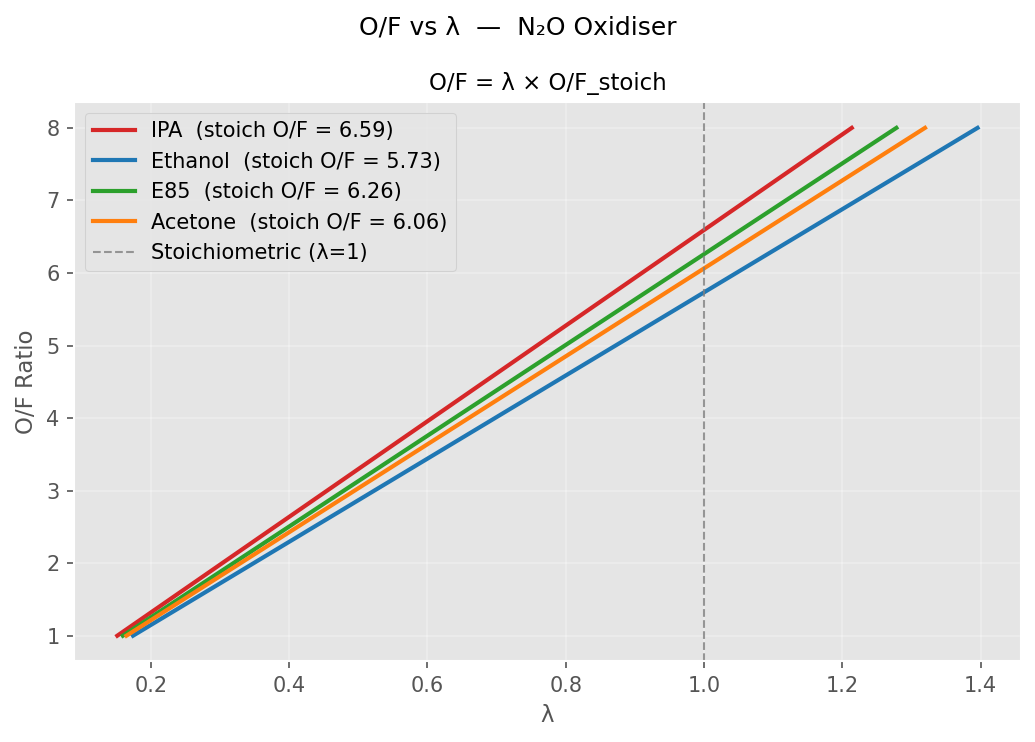
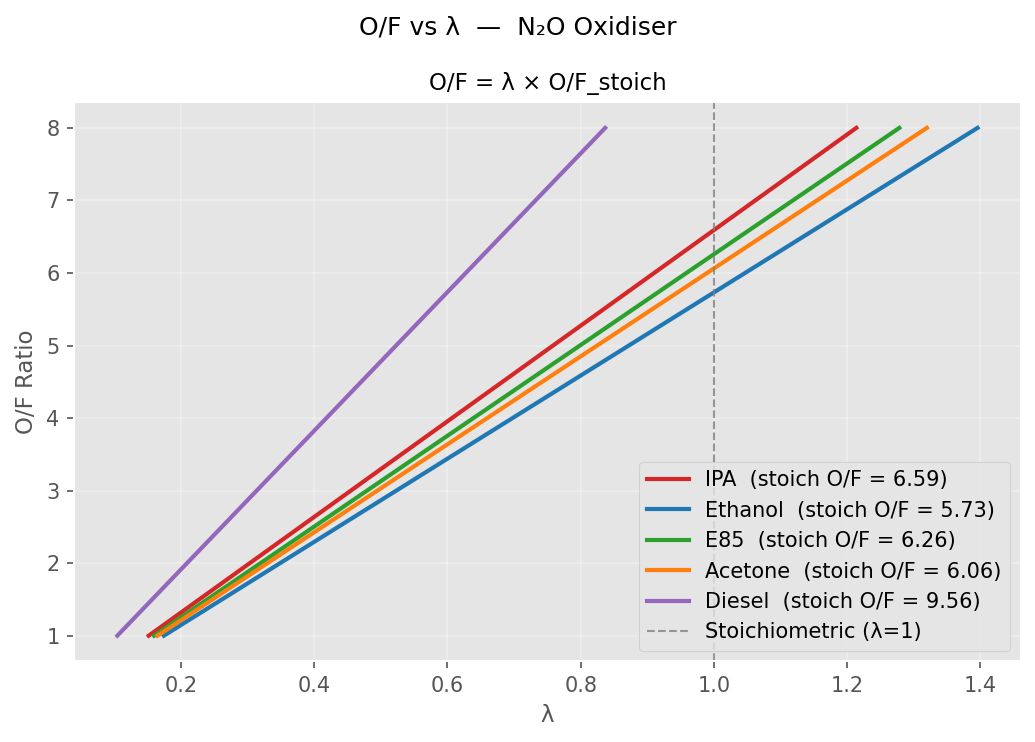
Made plot script only output Isp plot

diff --git a/Simulation/TcVsOF.py b/Simulation/TcVsOF.py
@@ -22,7 +22,7 @@ from PistonLiquidRocket import FUELS, combustion_props, thrust_coefficient, G0, 
 plt.style.use('ggplot')
 
 # -- Configuration -------------------------------------------------------------
-SELECTED_FUELS = ['IPA', 'Ethanol', 'E85', 'Acetone']  # subset of FUELS, or None for all
+SELECTED_FUELS = ['IPA', 'Ethanol', 'E85', 'Acetone', 'Diesel']  # subset of FUELS, or None for all
 LAM_MIN = 0.2       # lambda sweep start  (Tc/Isp plots)
 LAM_MAX = 1.0       # lambda sweep end
 LAM_N   = 300       # number of points
@@ -36,8 +36,11 @@ MIN_TEMP= 2000      # minimum temperature to plot [K]
 # Peak label offsets in points (dx, dy) — tweak to avoid line overlap
 OFFS           = 10
 LABEL_OFFSET_TC  = {'IPA': (-OFFS-15, OFFS), 'Ethanol': (OFFS, OFFS-2),
-                    'E85': (OFFS, -OFFS), 'Acetone': (-OFFS-10, -OFFS)}
-LABEL_OFFSET_ISP = {'IPA': (4, 0), 'Ethanol': (4, 0), 'E85': (4, 0), 'Acetone': (4, 0)}
+                    'E85': (OFFS, -OFFS-2), 'Acetone': (-OFFS-10, -OFFS-2),
+                    'Diesel': (-15, -15)}
+LABEL_OFFSET_ISP = {'IPA': (4, -8), 'Ethanol': (-25, 5),
+                    'E85': (4, 13), 'Acetone': (-20, -8),
+                    'Diesel': (0, -12)}
 # ------------------------------------------------------------------------------
 
 COLORS = ['tab:red', 'tab:blue', 'tab:green', 'tab:orange',
@@ -50,8 +53,8 @@ def main():
     lambdas = np.linspace(LAM_MIN, LAM_MAX, LAM_N)
     p_c_pa  = PC_MPA * 1e6
 
-    # -- Tc and Isp vs lambda --------------------------------------------------
-    fig, (ax_tc, ax_isp) = plt.subplots(2, 1, figsize=(6, 9))
+    # -- Isp vs lambda ---------------------------------------------------------
+    fig, ax_isp = plt.subplots(1, 1, figsize=(6, 5))
     fig.suptitle(
         f'N₂O Oxidiser — Pc = {PC_MPA:.1f} MPa,  ε = {EPS:.1f},  Pa = {P_AMB/1e3:.1f} kPa',
         fontsize=12,
@@ -60,14 +63,14 @@ def main():
     for fuel, color in zip(fuels, COLORS):
         ofs_fuel = lambdas * fuel.of_stoich
         props = [combustion_props(fuel, of, p_c_pa, EPS) for of in ofs_fuel]
-        Tc  = np.array([p[0] for p in props])
+        # Tc  = np.array([p[0] for p in props])
         gam = np.array([p[1] for p in props])
         cs  = np.array([p[3] for p in props])
         cf  = np.array([thrust_coefficient(g, EPS, p_c_pa, P_AMB) for g in gam])
         isp = cf * cs / G0
 
         for ax, data, peak_fmt, offsets in [
-            (ax_tc,  Tc,  '{:.0f} K', LABEL_OFFSET_TC),
+            # (ax_tc,  Tc,  '{:.0f} K', LABEL_OFFSET_TC),
             (ax_isp, isp, '{:.0f} s', LABEL_OFFSET_ISP),
         ]:
             ax.plot(lambdas, data, lw=2, color=color, label=fuel.name)
@@ -79,16 +82,14 @@ def main():
                         xytext=(dx, dy), textcoords='offset points',
                         fontsize=8, color=color, va='center')
 
-    # single stoichiometric line at lambda=1 (shared across all fuels)
-    for ax in (ax_tc, ax_isp):
-        ax.axvline(1.0, color='gray', lw=1.0, ls=':', alpha=0.8, label='Stoichiometric (λ=1)')
+    ax_isp.axvline(1.0, color='gray', lw=1.0, ls=':', alpha=0.8, label='Stoichiometric (λ=1)')
 
-    ax_tc.set_xlabel('λ', fontsize=11)
-    ax_tc.set_ylabel('Combustion Temperature (K)', fontsize=11)
-    ax_tc.set_title('Adiabatic Flame Temperature', fontsize=11)
-    ax_tc.set_ylim([MIN_TEMP,None])
-    ax_tc.legend(fontsize=10)
-    ax_tc.grid(True, alpha=0.3)
+    # ax_tc.set_xlabel('λ', fontsize=11)
+    # ax_tc.set_ylabel('Combustion Temperature (K)', fontsize=11)
+    # ax_tc.set_title('Adiabatic Flame Temperature', fontsize=11)
+    # ax_tc.set_ylim([MIN_TEMP,None])
+    # ax_tc.legend(fontsize=10)
+    # ax_tc.grid(True, alpha=0.3)
 
     ax_isp.set_xlabel('λ', fontsize=11)
     ax_isp.set_ylabel('Specific Impulse (s)', fontsize=11)

diff --git a/Simulation/PistonLiquidRocket.py b/Simulation/PistonLiquidRocket.py
@@ -254,12 +254,27 @@ fuel ACETONE  C 3 H 6 O 1   wt%=100.
     mw_exh_a=20.4, mw_exh_b=1.16, gamma_a=1.225, gamma_b=0.006,
 )
 
+DIESEL = Fuel(
+    name='Diesel', cea_name='DIESEL',
+    cea_card="""
+fuel DIESEL  C 12 H 26   wt%=100.
+  h,Kcal=-83.9  t(K)=298.15  rho,g/cc=0.820
+""",
+    coolprop_name=None,
+    density_ref=820.0,
+    mw_g_mol=170.34,
+    n_o2_stoich=18.5,      # C12H26 + 18.5 O2 -> 12CO2 + 13H2O
+    t_ad_peak=3150.0, t_ad_of_peak=9.2, t_ad_sigma=2.50, t_ad_floor=1500.0,
+    mw_exh_a=21.0, mw_exh_b=0.85, gamma_a=1.225, gamma_b=0.006,
+)
+
 FUELS: dict[str, Fuel] = {
     'IPA':      IPA,
     'Ethanol':  ETHANOL,
     'Methanol': METHANOL,
     'E85':      E85,
     'Acetone':  ACETONE,
+    'Diesel':   DIESEL,
 }
 
 # ── Default fuel ──────────────────────────────────────────────────────────────

diff --git a/Documentation Vault/02-Design/01-Propulsion System/Propulsion System Overview.md b/Documentation Vault/02-Design/01-Propulsion System/Propulsion System Overview.md
@@ -22,17 +22,19 @@ Nitrous oxide (N<sub>2</sub>O) is used as the oxidiser due to its explicit requi
 ### Fuel
 A comparison of potential fuel types is summarised below:
 
-| Fuel Type               | Safety   | Cost                                                                                 | Availability          | Flame                        |
-| ----------------------- | -------- | ------------------------------------------------------------------------------------ | --------------------- | ---------------------------- |
-| Isopropyl alcohol (IPA) | Good     | [$4.5/L](https://www.sydneysolvents.com.au/isopropyl-alcohol-100-20-litre)           | Delivery              | Faint orange                 |
-| Ethanol                 | Good     | [$4.0/L](https://www.sydneysolvents.com.au/industrial-methylated-spirits-20-litre)   | Delivery              | Almost invisible blue/yellow |
-| Diesel                  | Good     | [$2.1/L](https://petrolspy.com.au/map/latlng/-27.530393745221538/153.04868461871592) | Any petrol station    | Bright orange                |
-| E85                     | Moderate | [$2.3/L](https://petrolspy.com.au/map/latlng/-27.544466300664432/153.06961875315346) | United petrol station | Moderate orange/light blue   |
-| Acetone                 | Moderate | [$4.8/L](https://www.sydneysolvents.com.au/acetone-20-litre)                         | Delivery              | Moderate orange/blue         |
-| Methanol                | Poor     | [$2.5/L](https://www.sydneysolvents.com.au/methanol-20-litre)                        | Delivery              | Almost invisible light blue  |
+| Fuel Type               | Safety   | Cost                                                                                 | Availability          | Max Isp (s) | Flame                        | Notes                           |
+| ----------------------- | -------- | ------------------------------------------------------------------------------------ | --------------------- | ----------- | ---------------------------- | ------------------------------- |
+| Isopropyl alcohol (IPA) | Good     | [$4.5/L](https://www.sydneysolvents.com.au/isopropyl-alcohol-100-20-litre)           | Delivery              | 257 s       | Faint orange                 | Easy to obtain pure             |
+| Ethanol                 | Good     | [$4.0/L](https://www.sydneysolvents.com.au/industrial-methylated-spirits-20-litre)   | Delivery              | 260 s       | Almost invisible blue/yellow | Need to keep an eye on purity   |
+| Diesel                  | Good     | [$2.1/L](https://petrolspy.com.au/map/latlng/-27.530393745221538/153.04868461871592) | Any petrol station    | 251 s       | Bright orange                | Leaves oily film                |
+| E85                     | Moderate | [$2.3/L](https://petrolspy.com.au/map/latlng/-27.544466300664432/153.06961875315346) | United petrol station | 258 s       | Moderate orange/light blue   | More flammable than ethanol     |
+| Acetone                 | Moderate | [$4.8/L](https://www.sydneysolvents.com.au/acetone-20-litre)                         | Delivery              | 253 s       | Moderate orange/blue         | Tends to swell O-rings          |
+| Methanol                | Poor     | [$2.5/L](https://www.sydneysolvents.com.au/methanol-20-litre)                        | Delivery              | ~           | Almost invisible light blue  | "Should not be used" - Half Cat |
 On the basis of safety, the use of methanol was ruled out due to its high toxicity.
 
-IPA was chosen as the engine's fuel, due to its . An OF ratio of 2.1 is fixed to limit chamber wall temperature. This comes with a penalty of 110 s of Isp compared to the optimal, but reduces the combustion temperature by YYY C, as seen in the plot of combustion temperature vs OF. 
+For propellants, ethanol and E85 were chosen. Ethanol for its performance, and E85 for "show", with it having a more visible orange flame. Given that E85 has lower performance, the ethanol case will be used to establish a conservative "upper limit" of performance.
+
+![A:\Projects\Rockets\Liquid\Simulation\tc_isp_vs_lambda.png](file:///a%3A/Projects/Rockets/Liquid/Simulation/tc_isp_vs_lambda.png)
 ### Combustion Chamber
 
 ### Nozzle